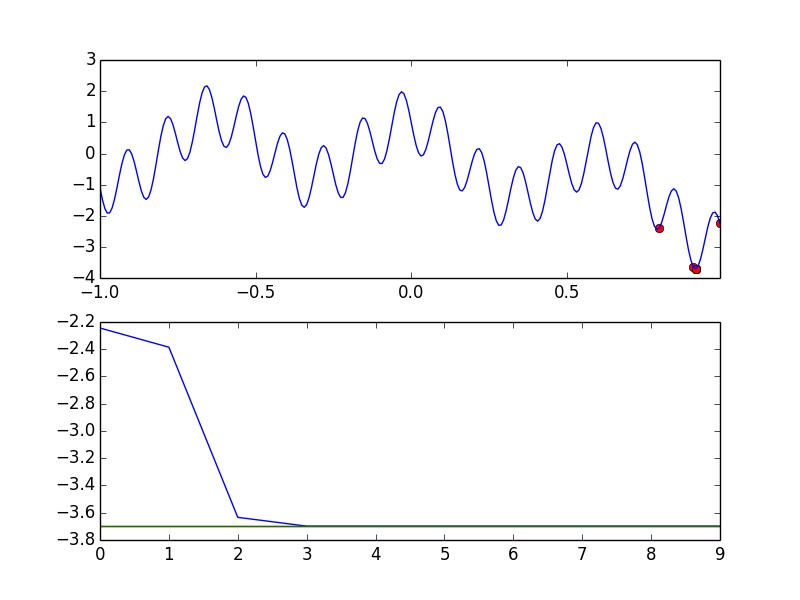
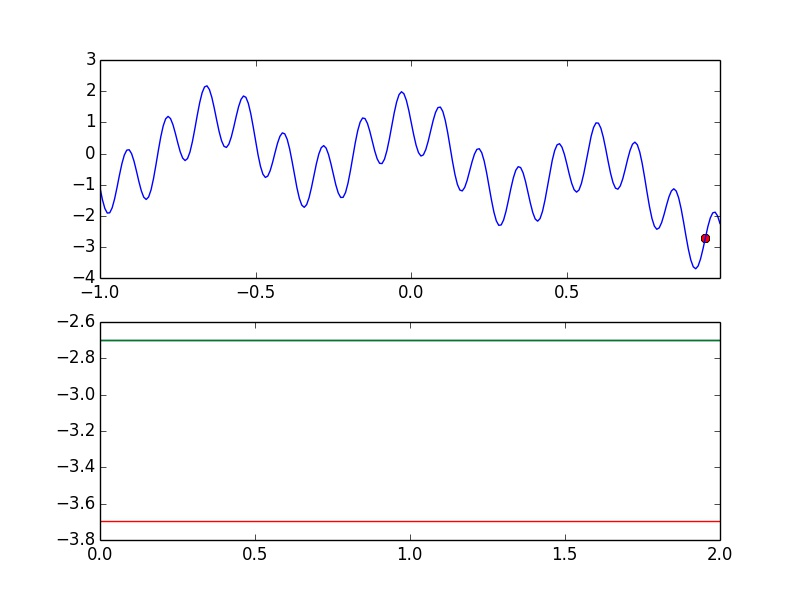
3d juhu

diff --git a/genetic/func.py b/genetic/func.py
@@ -1,9 +1,13 @@
-import matplotlib.pyplot as plt
 from numpy import *
 import random
 import crossing
 from genetic import mutation
 import selecting
+from mpl_toolkits.mplot3d import Axes3D
+from matplotlib import cm
+from matplotlib.cbook import todate
+import matplotlib.pyplot as plt
+import numpy as np
 
 class Genetic:
     def __init__(self):
@@ -11,7 +15,15 @@ class Genetic:
 
     def start(self, data):
         plt.clf()
-        self.f = lambda x: eval(data['function'])
+        if 'y' in data['function']:
+            self.f = lambda x, y: eval(data['function'])
+            self.plot = self.plot3d
+            self.fitness = self.fitness3d
+        else:
+            self.f = lambda x: eval(data['function'])
+            self.plot = self.plot2d
+            self.fitness = self.fitness2d
+
         self.range = 2**int(data['pop_size'])
         self.pop_size = int(data['pop_size'])
         self.pop_count = int(data['pop_count'])
@@ -42,6 +54,66 @@ class Genetic:
         except:
             self.mut_func = mutation.negation
 
+        self.plot()
+
+        while True:
+            try:
+                plt.savefig('static/img/plot.jpg')
+                break
+            except:
+                pass
+
+    def getxy(self, xy):
+        xpop_size = self.pop_size/2
+        ypop_size = (self.pop_size+1)/2
+
+        f = lambda x, y: self.minx + self.width/2**y*x
+
+        return f(xy >> xpop_size, xpop_size), f((2**ypop_size-1) & xy, ypop_size)
+
+    def fitness3d(self, xy):
+        return self.f(*self.getxy(xy))
+
+    def plot3d(self):
+        fig = plt.figure()
+        ax = fig.add_subplot(211, projection='3d')
+        m = list(self.find_min())
+
+        mx = [self.getxy(i['x'])[0] for i in m]
+        my = [self.getxy(i['x'])[1] for i in m]
+        mz = [i['y'] for i in m]
+
+        xpop_size = self.pop_size/2
+        ypop_size = (self.pop_size+1)/2
+        deltax = self.width/2**xpop_size
+        deltay = self.width/2**ypop_size
+
+        x = np.linspace(self.minx, self.maxx-deltax, 2**xpop_size)
+        y = np.linspace(self.minx, self.maxx-deltay, 2**ypop_size)
+        x, y = np.meshgrid(x, y)
+        z = self.f(x, y)
+
+        plotter = fig.gca(projection="3d")
+
+        args = {
+            'rstride': 1,
+            'cstride': 1,
+            'linewidth': 0,
+            'cmap': cm.coolwarm
+        }
+        surface = plotter.plot_surface(x, y, z, **args)
+        ax.scatter(mx, my, mz, s=10, marker='^', c='r')
+        fig.colorbar(surface)
+
+        plt.subplot(212)
+        lims = [0, self.gen_count-1]
+        plt.xlim(lims)
+        plt.plot(range(len(mz)), mz)
+        plt.plot(lims, 2*[np.min(z)], 'r')
+        plt.plot(lims, 2*[min(mz)], 'g')
+
+
+    def plot2d(self):
         m = list(self.find_min())
         extract_min = lambda d: ([self.getx(p0['x']) for p0 in d], [p1['y'] for p1 in d])
 
@@ -63,17 +135,10 @@ class Genetic:
         plt.plot(lims, 2*[min(y)], 'r')
         plt.plot(lims, 2*[min(my)], 'g')
 
-        while True:
-            try:
-                plt.savefig('static/img/plot.jpg')
-                break
-            except:
-                pass
-
     def getx(self, x):
         return self.minx + self.width/self.range*x
 
-    def fitness(self, x):
+    def fitness2d(self, x):
         return self.f(self.getx(x))
 
 
